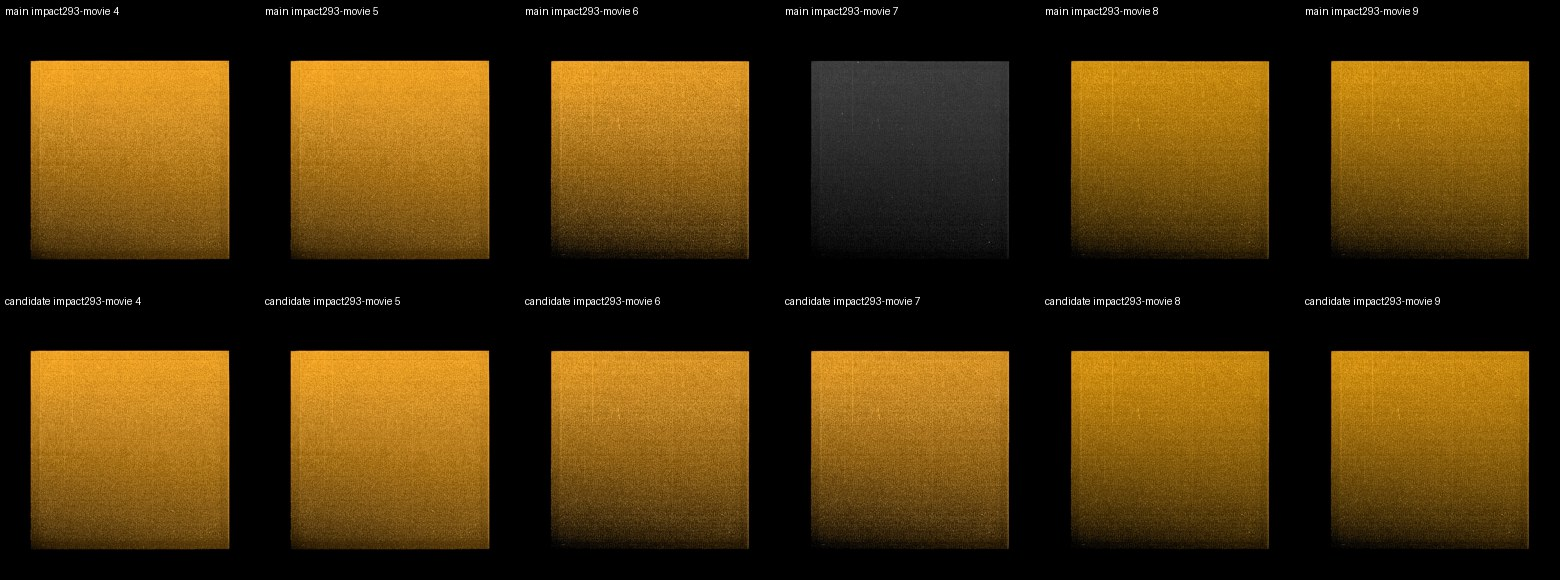
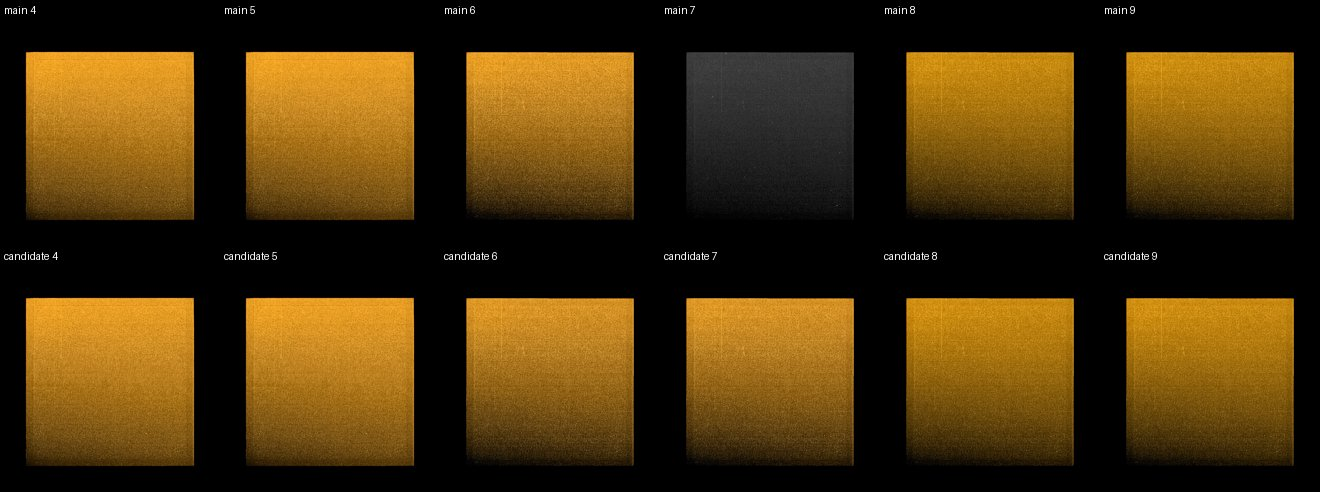
Evidence: bench 6452dc6d vs 53f62663 (0 regressions, 8 fixed), sheets, notes, Fable strips

diff --git a/evidence/movie-odd-frames/bench-report.md b/evidence/movie-odd-frames/bench-report.md
@@ -1,12 +1,10 @@
-# Image benchmark: 4e6ac06be493 against 56d65b8b04ae
+# Image benchmark: 53f6266317ae against 6452dc6d3bc0
 
-**FAIL**. 100 items: 94 identical, 6 changed (1 outside the target), 0 not built.
+**NEEDS EYES**. 109 items: 103 identical, 6 changed (1 outside the target), 0 not built.
 
-- worse by measure outside the target, unexplained: pan17-movie
-- changed outside the target, unexplained: pan17-movie
 - target items with a measure worse (look at them): saturn16-uv2-movie, titan16-methane-movie, skathi11-veil-movie, rx-saturn14-movie
 
-Built in 71 min (base) and 65 min (candidate). Targets: impact293-movie, rx-saturn14-movie, saturn16-uv2-movie, skathi11-veil-movie, titan16-methane-movie.
+Built in 53 min (base) and 62 min (candidate). Targets: impact293-movie, rx-saturn14-movie, saturn16-uv2-movie, skathi11-veil-movie, titan16-methane-movie.
 
 | item | group | status | pictures changed | moved >8 levels (worst) | largest change (levels) | worse by measure | note |
 |---|---|---|---|---|---|---|---|
@@ -53,7 +51,7 @@ Built in 71 min (base) and 65 min (candidate). Targets: impact293-movie, rx-satu
 | enceladus15-movie | plain | identical | 0/74 | 0.00% |  |  |  |
 | telesto-movie | plain | identical | 0/36 | 0.00% |  |  |  |
 | daphnis17-movie | plain | identical | 0/64 | 0.00% |  |  |  |
-| pan17-movie | plain | changed | 6/38 | 34.76% | 255 | evened009.webp: 3.22% of the base's light now black; evened009.webp: lit area's centre moved 18 px; evened009.webp: lit share 48.0% -> 45.0% |  |
+| pan17-movie | plain | changed | 6/38 | 34.76% | 255 | evened009.webp: 3.22% of the base's light now black; evened009.webp: lit area's centre moved 18 px; evened009.webp: lit share 48.0% -> 45.0% | held polarizer frames (P0/P60/P120 UV3, MT2) in this clear-playing movie take the clear frame nearest them in time (HOLD_REACH, before or after) instead of always the one before: frame 9 shows frame 10's, frames 14-15 the next clear frame's, so Pan is drawn where it was at that moment (lit centre 18 px along its own motion) |
 | titan-cloud-mosaic | plain | identical | 0/2 | 0.00% |  |  |  |
 | earth-fb-still | plain | identical | 0/1 | 0.00% |  |  |  |
 | enceladus15-composite | plain | identical | 0/1 | 0.00% |  |  |  |
@@ -87,22 +85,31 @@ Built in 71 min (base) and 65 min (candidate). Targets: impact293-movie, rx-satu
 | night-dark-composite | hard | identical | 0/1 | 0.00% |  |  |  |
 | storm13-night-movie | hard | identical | 0/10 | 0.00% |  |  |  |
 | himalia00-movie | hard | identical | 0/40 | 0.00% |  |  |  |
-| saturn16-uv2-movie | target | changed | 11/52 | 84.75% | 255 | frame003.webp: 0.61% of the base's light now black; frame007.webp: lit share 86.5% -> 82.8% |  |
-| titan16-methane-movie | target | changed | 3/16 | 69.28% | 211 | frame005.webp: clipped 0.00% -> 4.42%; frame005.webp: 1.38% of the base's light now black; frame005.webp: lit area's centre moved 20 px; frame010.webp: lit share 55.2% -> 30.3% | target. pointing_jitter 5.1 -> 14.4 is the check matching unlike pictures, not a move: frames 9-11 (UV3, UV1, UV2) now show the CB3 frame nearest in time (frame 2's, frame 12's), and the move is measured from BL1 haze (frame 8) to CB3 surface. Fable on frames 5-12: Titan stays put (no jump over 2-3 px at 300 px), candidate better: main's dark, speckled UV1 frame 10 is gone. |
-| skathi11-veil-movie | target | changed | 13/134 | 98.20% | 255 | frame013.webp: clipped 0.01% -> 1.40%; frame013.webp: 98.02% of the base's light now black; frame013.webp: detail 1.3322 -> 2.6691 (+100%); frame013.webp: lit area's centre moved 28 px; frame013.webp: lit share 97.8% -> 0.7% |  |
+| saturn16-uv2-movie | target | changed | 1/52 | 81.25% | 224 | frame042.webp: 1.45% of the base's light now black; frame042.webp: detail 0.0465 -> 0.0647 (+39%) |  |
+| titan16-methane-movie | target | changed | 6/16 | 69.28% | 211 | frame005.webp: clipped 0.00% -> 4.42%; frame005.webp: 1.38% of the base's light now black; frame005.webp: lit area's centre moved 20 px; frame010.webp: lit share 55.2% -> 30.3% |  |
+| skathi11-veil-movie | target | changed | 20/134 | 99.25% | 255 | frame013.webp: clipped 0.01% -> 1.40%; frame013.webp: 98.02% of the base's light now black; frame013.webp: detail 1.3322 -> 2.6691 (+100%); frame013.webp: lit area's centre moved 28 px; frame013.webp: lit share 97.8% -> 0.7% |  |
 | dione139-mosaic | hard | identical | 0/2 | 0.00% |  |  |  |
 | titan059-mosaic | hard | identical | 0/2 | 0.00% |  |  |  |
 | enceladus144-mosaic | hard | identical | 0/2 | 0.00% |  |  |  |
 | rx-saturn14-movie | target | changed | 50/144 | 77.73% | 254 | evened033.webp: lit area's centre moved 34 px; evened052.webp: 1.72% of the base's light now black |  |
 | m-aegaeon15-pass2 | hard | identical | 0/4 | 0.00% |  |  |  |
 | m-himalia00-pass | hard | identical | 0/40 | 0.00% |  |  |  |
-| m-janus10-pass | hard | identical | 0/48 | 0.00% |  |  |  |
 | m-mundilfari07-pass | hard | identical | 0/22 | 0.00% |  |  |  |
 | m-pallene17-pass | hard | identical | 0/30 | 0.00% |  |  |  |
 | rx-saturn09-movie | hard | identical | 0/108 | 0.00% |  |  |  |
 | rx-sun02-cruise | hard | identical | 0/22 | 0.00% |  |  |  |
 | ry-methone12-movie | hard | identical | 0/47 | 0.00% |  |  |  |
 | rz-enceladus13-movie | hard | identical | 0/62 | 0.00% |  |  |  |
+| m-janus10-pass | hard | identical | 0/48 | 0.00% |  |  |  |
+| rz-saturn12-movie | hard | identical | 0/49 | 0.00% |  |  |  |
+| rz-saturn09-movie3 | hard | identical | 0/97 | 0.00% |  |  |  |
+| m-pallene06-still | hard | identical | 0/1 | 0.00% |  |  |  |
+| m-calypso05-still | hard | identical | 0/1 | 0.00% |  |  |  |
+| m-polydeuces12-still | hard | identical | 0/1 | 0.00% |  |  |  |
+| m-siarnaq10-still | hard | identical | 0/1 | 0.00% |  |  |  |
+| m-telesto06-still | hard | identical | 0/1 | 0.00% |  |  |  |
+| rz-iapetus11-still | hard | identical | 0/1 | 0.00% |  |  |  |
+| aurstare13-movie | hard | identical | 0/83 | 0.00% |  |  |  |
 | fring274-movie | hard | identical | 0/172 | 0.00% |  |  |  |
 | npole0908-mosaicmovie | hard | identical | 0/1 | 0.00% |  |  |  |
 | encset293-movie | hard | identical | 0/48 | 0.00% |  |  |  |
@@ -115,20 +122,22 @@ Sheets: `sheets/<item>.jpg` (base | candidate | difference x4, with 1:1 crops of
 
 ## Checks
 
-1 regressions, 4 fixed, 45 known (failing on the base too), 0 errors. A known failure is a defect already on the base; it does not fail this run, and a fix should turn it into fixed.
+0 regressions, 8 fixed, 47 known (failing on the base too), 0 errors. A known failure is a defect already on the base; it does not fail this run, and a fix should turn it into fixed.
 
 | item | check | verdict | base | candidate | what |
 |---|---|---|---|---|---|
 | plume279-movie | full_black | known | 24.85 | 24.85 (limit 20.0) | black sky lost at Full: up to 25 points (40% of frame287.webp black at Processed, 15% at Full; 1 of 16 frames over 20) |
-| plume279-movie | odd_frame | known | 14.0524 | 14.0524 (limit 4.0) | worst 14.1 at frame074.webp (100 of 286 frames over 4.0) |
+| plume279-movie | odd_frame | known | 14.0524 | 14.0524 (limit 4.0) | worst 14.1 at frame074.webp (102 of 286 frames over 4.0) |
 | ringmovie04-movie | full_black | known | 25.18 | 25.18 (limit 20.0) | black sky lost at Full: up to 25 points (82% of frame006.webp black at Processed, 57% at Full; 5 of 16 frames over 20) |
 | ringmovie04-movie | pointing_jitter | known | 6.3178 | 6.3178 (limit 3.0) | frame-to-frame jump past the movie's own motion: p90 6.3 px, largest 8.7 px (33 pairs) |
+| saturn05-movie | odd_frame | known | 5.2378 | 5.2378 (limit 4.0) | worst 5.2 at frame012.webp (5 of 7 frames over 4.0) |
 | impact293-movie | odd_frame | fixed | 17.108 | 0.7483 (limit 4.0) | worst 0.7 at frame006.webp (0 of 1 frames over 4.0) |
 | mimas04-movie | odd_frame | known | 5.3802 | 5.3802 (limit 4.0) | worst 5.4 at frame018.webp (1 of 9 frames over 4.0) |
-| aurstare289-movie | full_banding | known | 2.732 | 2.732 (limit 1.0) | Full sky banding up to 2.73 levels where Processed has black sky (9 of 16 frames over 1.0) |
-| aurstare289-movie | full_black | known | 69.36 | 69.36 (limit 20.0) | black sky lost at Full: up to 69 points (71% of frame022.webp black at Processed, 1% at Full; 11 of 16 frames over 20) |
-| wind170-movie | pointing_jitter | known | 14.8407 | 14.8407 (limit 3.0) | frame-to-frame jump past the movie's own motion: p90 14.8 px, largest 76.2 px (13 pairs) |
-| approach04-movie | odd_frame | known | 20.1989 | 20.1989 (limit 4.0) | worst 20.2 at frame027.webp (1 of 12 frames over 4.0) |
+| aurstare289-movie | full_banding | known | 1.447 | 1.447 (limit 1.0) | Full sky banding up to 1.45 levels where Processed has black sky (7 of 16 frames over 1.0) |
+| aurstare289-movie | full_black | known | 68.47 | 68.47 (limit 20.0) | black sky lost at Full: up to 68 points (71% of frame022.webp black at Processed, 2% at Full; 11 of 16 frames over 20) |
+| wind170-movie | pointing_jitter | known | 13.0986 | 13.0986 (limit 3.0) | frame-to-frame jump past the movie's own motion: p90 13.1 px, largest 76.8 px (13 pairs) |
+| aurora101-movie | odd_frame | known | 10.0184 | 10.0184 (limit 4.0) | worst 10.0 at frame009.webp (2 of 6 frames over 4.0) |
+| approach04-movie | odd_frame | known | 20.2612 | 20.2612 (limit 4.0) | worst 20.3 at frame027.webp (1 of 12 frames over 4.0) |
 | saturn07-fullblack-movie | full_black | known | 29.14 | 29.14 (limit 20.0) | black sky lost at Full: up to 29 points (78% of frame029.webp black at Processed, 49% at Full; 16 of 16 frames over 20) |
 | saturn08w-fullblack-movie | full_black | known | 22.01 | 22.01 (limit 20.0) | black sky lost at Full: up to 22 points (56% of frame002.webp black at Processed, 34% at Full; 2 of 16 frames over 20) |
 | saturn08-fullblack-movie | full_black | known | 21.43 | 21.43 (limit 20.0) | black sky lost at Full: up to 21 points (74% of frame025.webp black at Processed, 52% at Full; 2 of 16 frames over 20) |
@@ -137,35 +146,38 @@ Sheets: `sheets/<item>.jpg` (base | candidate | difference x4, with 1:1 crops of
 | himalia00-movie | full_banding | known | 4.049 | 4.049 (limit 1.0) | Full sky banding up to 4.05 levels where Processed has black sky (3 of 10 frames over 1.0) |
 | himalia00-movie | full_black | known | 91.67 | 91.67 (limit 20.0) | black sky lost at Full: up to 92 points (94% of frame000.webp black at Processed, 3% at Full; 3 of 16 frames over 20) |
 | himalia00-movie | odd_frame | known | 40.8583 | 40.8583 (limit 4.0) | worst 40.9 at frame003.webp (2 of 14 frames over 4.0) |
-| saturn16-uv2-movie | odd_frame | known | 18.1178 | 8.2655 (limit 4.0) | worst 8.3 at frame034.webp (7 of 32 frames over 4.0) |
-| saturn16-uv2-movie | pointing_jitter | known | 5.6846 | 4.5669 (limit 3.0) | frame-to-frame jump past the movie's own motion: p90 4.6 px, largest 5.3 px (51 pairs) |
-| titan16-methane-movie | odd_frame | known | 13.097 | 4.3826 (limit 4.0) | worst 4.4 at frame008.webp (1 of 8 frames over 4.0) |
-| titan16-methane-movie | pointing_jitter | REGRESSION | 5.1268 | 14.4005 (limit 3.0) | frame-to-frame jump past the movie's own motion: p90 14.4 px, largest 20.2 px (13 pairs) |
-| skathi11-veil-movie | full_banding | known | 2.241 | 2.241 (limit 1.0) | Full sky banding up to 2.24 levels where Processed has black sky (1 of 16 frames over 1.0) |
-| skathi11-veil-movie | full_black | known | 48.87 | 48.84 (limit 20.0) | black sky lost at Full: up to 49 points (51% of frame089.webp black at Processed, 2% at Full; 1 of 16 frames over 20) |
-| skathi11-veil-movie | odd_frame | fixed | 57.1856 | 2.6549 (limit 4.0) | worst 2.7 at frame010.webp (0 of 104 frames over 4.0) |
-| skathi11-veil-movie | pointing_jitter | known | 23.6134 | 24.1294 (limit 3.0) | frame-to-frame jump past the movie's own motion: p90 24.1 px, largest 61.9 px (109 pairs) |
+| saturn16-uv2-movie | odd_frame | known | 18.6796 | 18.6796 (limit 4.0) | worst 18.7 at frame029.webp (5 of 36 frames over 4.0) |
+| saturn16-uv2-movie | pointing_jitter | known | 7.5347 | 7.957 (limit 3.0) | frame-to-frame jump past the movie's own motion: p90 8.0 px, largest 9.8 px (49 pairs) |
+| titan16-methane-movie | odd_frame | fixed | 13.097 | 0.6632 (limit 4.0) | worst 0.7 at frame001.webp (0 of 4 frames over 4.0) |
+| titan16-methane-movie | pointing_jitter | fixed | 5.1268 | 0.3169 (limit 3.0) | frame-to-frame jump past the movie's own motion: p90 0.3 px, largest 1.1 px (13 pairs) |
+| skathi11-veil-movie | full_banding | fixed | 2.241 | 0.0 (limit 1.0) | Full sky banding up to 0.00 levels where Processed has black sky (0 of 16 frames over 1.0) |
+| skathi11-veil-movie | full_black | fixed | 48.87 | -38.37 (limit 20.0) | black sky lost at Full: up to -38 points (61% of frame062.webp black at Processed, 99% at Full; 0 of 16 frames over 20) |
+| skathi11-veil-movie | odd_frame | fixed | 57.1856 | 2.8443 (limit 4.0) | worst 2.8 at frame083.webp (0 of 97 frames over 4.0) |
+| skathi11-veil-movie | pointing_jitter | known | 23.6134 | 26.2062 (limit 3.0) | frame-to-frame jump past the movie's own motion: p90 26.2 px, largest 60.9 px (109 pairs) |
 | rx-saturn14-movie | odd_frame | fixed | 4.2794 | 2.9988 (limit 4.0) | worst 3.0 at frame009.webp (0 of 6 frames over 4.0) |
 | rx-saturn14-movie | pointing_jitter | fixed | 3.5816 | 0.0 (limit 3.0) | frame-to-frame jump past the movie's own motion: p90 0.0 px, largest 0.0 px (64 pairs) |
 | m-aegaeon15-pass2 | odd_frame | known | 9.0587 | 9.0587 (limit 4.0) | worst 9.1 at frame001.webp (1 of 2 frames over 4.0) |
 | m-himalia00-pass | full_banding | known | 4.049 | 4.049 (limit 1.0) | Full sky banding up to 4.05 levels where Processed has black sky (3 of 10 frames over 1.0) |
 | m-himalia00-pass | full_black | known | 91.67 | 91.67 (limit 20.0) | black sky lost at Full: up to 92 points (94% of frame000.webp black at Processed, 3% at Full; 3 of 16 frames over 20) |
 | m-himalia00-pass | odd_frame | known | 40.8583 | 40.8583 (limit 4.0) | worst 40.9 at frame003.webp (2 of 14 frames over 4.0) |
-| m-janus10-pass | pointing_jitter | known | 32.0139 | 32.0139 (limit 3.0) | frame-to-frame jump past the movie's own motion: p90 32.0 px, largest 135.6 px (23 pairs) |
 | m-mundilfari07-pass | odd_frame | known | 24.3752 | 24.3752 (limit 4.0) | worst 24.4 at frame007.webp (2 of 4 frames over 4.0) |
 | m-pallene17-pass | full_black | known | 96.2 | 96.2 (limit 20.0) | black sky lost at Full: up to 96 points (97% of frame010.webp black at Processed, 1% at Full; 2 of 15 frames over 20) |
 | m-pallene17-pass | odd_frame | known | 36.7632 | 36.7632 (limit 4.0) | worst 36.8 at frame005.webp (3 of 4 frames over 4.0) |
 | m-pallene17-pass | pointing_jitter | known | 40.6822 | 40.6822 (limit 3.0) | frame-to-frame jump past the movie's own motion: p90 40.7 px, largest 105.8 px (10 pairs) |
 | rx-saturn09-movie | full_black | known | 63.74 | 63.74 (limit 20.0) | black sky lost at Full: up to 64 points (64% of frame046.webp black at Processed, 0% at Full; 3 of 16 frames over 20) |
-| rx-saturn09-movie | odd_frame | known | 39.796 | 39.796 (limit 4.0) | worst 39.8 at frame041.webp (5 of 27 frames over 4.0) |
+| rx-saturn09-movie | odd_frame | known | 43.7285 | 43.7285 (limit 4.0) | worst 43.7 at frame044.webp (9 of 27 frames over 4.0) |
 | rx-saturn09-movie | pointing_jitter | known | 73.3869 | 73.3869 (limit 3.0) | frame-to-frame jump past the movie's own motion: p90 73.4 px, largest 246.2 px (30 pairs) |
 | rx-sun02-cruise | odd_frame | known | 79.0499 | 79.0499 (limit 4.0) | worst 79.0 at frame003.webp (3 of 5 frames over 4.0) |
 | rx-sun02-cruise | pointing_jitter | known | 6.3895 | 6.3895 (limit 3.0) | frame-to-frame jump past the movie's own motion: p90 6.4 px, largest 14.0 px (8 pairs) |
 | ry-methone12-movie | full_black | known | 93.61 | 93.61 (limit 20.0) | black sky lost at Full: up to 94 points (100% of frame018.webp black at Processed, 6% at Full; 4 of 16 frames over 20) |
-| ry-methone12-movie | odd_frame | known | 41.9536 | 41.9536 (limit 4.0) | worst 42.0 at frame015.webp (11 of 41 frames over 4.0) |
+| ry-methone12-movie | odd_frame | known | 41.9536 | 41.9536 (limit 4.0) | worst 42.0 at frame015.webp (16 of 41 frames over 4.0) |
 | rz-enceladus13-movie | odd_frame | known | 32.1055 | 32.1055 (limit 4.0) | worst 32.1 at frame008.webp (25 of 54 frames over 4.0) |
 | rz-enceladus13-movie | pointing_jitter | known | 20.9301 | 20.9301 (limit 3.0) | frame-to-frame jump past the movie's own motion: p90 20.9 px, largest 55.4 px (15 pairs) |
+| m-janus10-pass | pointing_jitter | known | 30.758 | 30.758 (limit 3.0) | frame-to-frame jump past the movie's own motion: p90 30.8 px, largest 136.0 px (23 pairs) |
+| rz-saturn12-movie | full_black | known | 93.78 | 93.78 (limit 20.0) | black sky lost at Full: up to 94 points (95% of frame000.webp black at Processed, 2% at Full; 16 of 16 frames over 20) |
+| rz-saturn09-movie3 | pointing_jitter | known | 4.7339 | 4.7339 (limit 3.0) | frame-to-frame jump past the movie's own motion: p90 4.7 px, largest 66.6 px (91 pairs) |
+| aurstare13-movie | full_black | known | 65.12 | 65.12 (limit 20.0) | black sky lost at Full: up to 65 points (67% of frame060.webp black at Processed, 2% at Full; 14 of 16 frames over 20) |
 | fring274-movie | full_black | known | 32.91 | 32.91 (limit 20.0) | black sky lost at Full: up to 33 points (64% of frame023.webp black at Processed, 31% at Full; 10 of 16 frames over 20) |
 | fring274-movie | pointing_jitter | known | 5.8112 | 5.8112 (limit 3.0) | frame-to-frame jump past the movie's own motion: p90 5.8 px, largest 136.4 px (151 pairs) |
 | fring039-movie | full_black | known | 29.14 | 29.14 (limit 20.0) | black sky lost at Full: up to 29 points (78% of frame029.webp black at Processed, 49% at Full; 16 of 16 frames over 20) |
-| titancloud264-movie | channel_registration | known | 1.439 | 1.439 (limit 0.7) | red or blue channel off green: p90 1.44 px, largest 1.47 px (52 colour frames) |
+| titancloud264-movie | channel_registration | known | 1.42 | 1.42 (limit 0.7) | red or blue channel off green: p90 1.42 px, largest 1.45 px (52 colour frames) |

diff --git a/evidence/movie-odd-frames/fable.md b/evidence/movie-odd-frames/fable.md
@@ -1,14 +1,7 @@
-Fable 5.2, neutral brief, 11-22.
-
-Changed sheets (one sample frame each, 56d65b8b vs 4e6ac06b):
-- Better: saturn16-uv2 (clean black sky, specks gone), skathi11-veil (gray veil gone), titan16-methane (clean disc, surface markings).
-- Mixed on one frame: impact293, pan17, rx-saturn14. Fable could not judge flashes from a single frame, so the movie strips below were judged.
-
-Frame strips (main top, candidate bottom):
-- impact293 4-9: candidate better. Main's frame 7 flashes dark gray between orange frames; the candidate's matches them.
-- rx-saturn14 30-36: candidate better. Main's frames 33-35 shrink, blur and get a black border (the blurred UV3 held three times); the candidate's are sharp and full-frame, like 30-32.
-- rx-saturn14 49-54: candidate better. Main's frames 52-53 get a green cast, blur and a border; the candidate's match 49-51.
-- pan17 10-16: mixed. Both rows have one rotation of the ring panels (the camera's turn). Main turns between 15 and 16; the candidate turns between 13 and 14, because polarizer frames 14-15 now show the clear frame nearest them in time.
-- titan16-methane 5-12: candidate better. Titan stays put (no jump over 2-3 px); main's dark, speckled UV1 frame 10 is gone.
-
-Fable saw no frame where the candidate looked worse than main.
+Fable 5.2, neutral brief, 11-23 (bench 6452dc6d vs 53f62663). Frame strips, main on top, candidate below:
+- titan16 0-15: candidate better. Main flashes at 5-10: dark and gray frames without markings, the worst a near-outline disc on a gray veil at 10, and the disc hops. The candidate has no flash, jump or lost detail. Measured by phase correlation: main steps 14 px at 5 and 8 px at 9; the candidate's steps are 0.0-0.4 px.
+- skathi11 44-59: candidate better. Main has 8 gray veil frames (46, 48-50, 54, 56-57, 59); the candidate's sky is black throughout and the stars are kept.
+- skathi11 84-93: candidate better. Main's veils at 89, 90 and 93 are gone. The dimmer 84 and 87 and the 86-88 step are the same on both.
+- impact293 4-9, rx-saturn14 30-36 and 49-54 (strips here; judged better on 11-22): these frames are unchanged from the 11-22 candidate.
+- pan17: mixed on 11-22. The camera's one turn shows two frames earlier, because polarizer frames take the clear frame nearest in time.
+No new defect seen.
